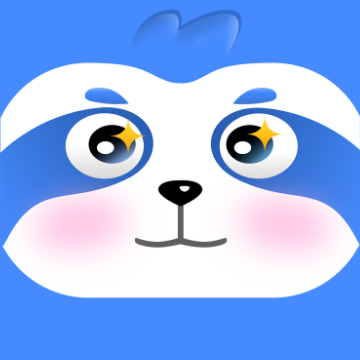
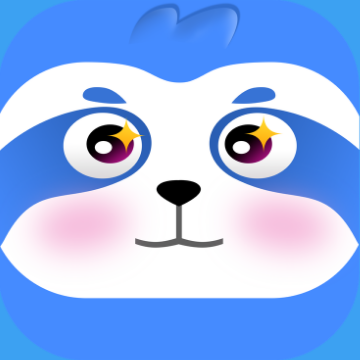
mascot added

diff --git a/src/components/HeroMascot.tsx b/src/components/HeroMascot.tsx
@@ -1,0 +1,35 @@
+import { csx } from "@/lib/csx"
+
+/* ============================================================
+   HERO MASCOT — your own illustration, used ONLY on:
+     - the landing page hero (top-left + Today's Quest card)
+     - the dashboard hero ("Hi, ...")
+   Every OTHER place (login, level card, modals, AI helper, etc.)
+   keeps its own image/mascot and is NOT affected by this file.
+
+   HOW TO SET YOUR IMAGE:
+     1. Export your mascot as a PNG with a TRANSPARENT background.
+     2. Save it as:  public/mascot-hero.png
+     3. Recommended: square, about 512x512 px (min 300x300) so it
+        stays crisp when shown large.
+   To use a different file name, just change SRC below.
+   ============================================================ */
+const SRC = "/mascot-hero.png"
+
+export function HeroMascot({
+  size = 150,
+  className = "",
+}: {
+  size?: number
+  className?: string
+}) {
+  return (
+    // eslint-disable-next-line @next/next/no-img-element
+    <img
+      src={SRC}
+      alt="Momo mascot"
+      className={"iq-heromascot " + className}
+      style={csx("width:" + size + "px;height:auto")}
+    />
+  )
+}

diff --git a/src/app/globals.css b/src/app/globals.css
@@ -994,3 +994,27 @@ html,body{max-width:100%;overflow-x:hidden}
   border-radius:10px;padding:8px 12px;font-size:13px;line-height:1.5;
   overflow-wrap:anywhere;word-break:break-word;
 }
+
+
+/* ===== REVISI v10 - custom hero mascot + gradient Sloe wordmark ===== */
+.iq-wordmark{
+  background:linear-gradient(120deg,#2F6BFF 0%,#FF5B92 100%);
+  -webkit-background-clip:text;background-clip:text;
+  -webkit-text-fill-color:transparent;color:transparent;
+  font-weight:800;letter-spacing:-.02em;
+}
+/* App sidebar/topbar wordmark -> same blue-pink gradient */
+.iq-brand{
+  background:linear-gradient(120deg,#2F6BFF 0%,#FF5B92 100%);
+  -webkit-background-clip:text;background-clip:text;
+  -webkit-text-fill-color:transparent;color:transparent;
+}
+.iq-brand i{color:inherit;-webkit-text-fill-color:inherit;background:none;font-style:normal}
+/* Custom hero illustration (landing + dashboard only) */
+.iq-heromascot{display:block;object-fit:contain}
+.iq-lp__heromascot{margin-bottom:14px}
+.iq-hero{min-height:170px}
+.iq-hero__mascot{flex:none}
+@media(max-width:860px){
+  .iq-hero__mascot{align-self:center}
+}

diff --git a/src/app/page.tsx b/src/app/page.tsx
@@ -1,5 +1,5 @@
 import Link from "next/link"
-import { Momo } from "@/components/Momo"
+import { HeroMascot } from "@/components/HeroMascot"
 import { Icon } from "@/components/Icons"
 import { csx } from "@/lib/csx"
 
@@ -30,9 +30,7 @@ export default function Landing() {
   return (
     <main className="iq-lp">
       <nav className="iq-lp__nav">
-        <span style={csx("font-weight:800;font-size:22px;color:#141B2E;letter-spacing:-.02em")}>
-          Sl<span style={csx("color:#5B3FE0")}>oe</span>
-        </span>
+        <span className="iq-wordmark" style={csx("font-size:22px")}>Sloe</span>
         <div style={csx("display:flex;gap:10px")}>
           <Link className="iq-btn iq-btn--ghost iq-btn--sm" href="/login">Log in</Link>
           <Link className="iq-btn iq-btn--primary iq-btn--sm" href="/login?mode=signup">Get started</Link>
@@ -42,6 +40,7 @@ export default function Landing() {
       <div className="iq-lp__wrap">
         <section className="iq-lp__hero">
           <div>
+            <HeroMascot size={150} className="iq-lp__heromascot" />
             <span className="iq-lp__badge">✨ Your AI internship companion</span>
             <h1 className="iq-lp__title">Turn your internship hunt into a <span className="iq-lp__grad">winning quest</span></h1>
             <p className="iq-lp__sub">Sloe helps students find, track, and win internships. Save opportunities from posters and links, get AI help with your applications, share finds with internship groups, and stay motivated with a friendly gamified workspace.</p>
@@ -52,7 +51,7 @@ export default function Landing() {
           </div>
           <div className="iq-lp__art">
             <div className="row" style={csx("gap:12px;margin-bottom:16px")}>
-              <Momo size={64} />
+              <HeroMascot size={72} />
               <div><b style={csx("font-size:16px")}>Today's Quest</b><div style={csx("opacity:.9;font-size:13px")}>3 tasks to level up</div></div>
             </div>
             <div className="iq-lp__arti"><Icon name="ic-check" className="ic ic-18" /> Finish your CV checklist</div>

diff --git a/src/app/(auth)/login/page.tsx b/src/app/(auth)/login/page.tsx
@@ -107,9 +107,7 @@ export default function LoginPage() {
   return (
     <section className="iq-auth">
       <div className="iq-auth__hero" style={csx("background:linear-gradient(180deg,#CFE6FF 0%,#E9F3FF 55%,#FFFFFF 100%)")}>
-        <span style={csx("font-weight:800;font-size:28px;color:var(--blue-text)")}>
-          Sl<span style={csx("color:var(--pink-text)")}>oe</span>
-        </span>
+        <span className="iq-wordmark" style={csx("font-size:28px")}>Sloe</span>
         <div className="iq-auth__tag" style={csx("min-height:28px")}>{TAGLINES[slide]} 🦥</div>
         <Momo size={200} />
         <div className="iq-dots">

diff --git a/src/app/(app)/dashboard/page.tsx b/src/app/(app)/dashboard/page.tsx
@@ -1,6 +1,7 @@
 import Link from "next/link"
 import { createClient } from "@/lib/supabase/server"
 import { Momo } from "@/components/Momo"
+import { HeroMascot } from "@/components/HeroMascot"
 import { MomoFace } from "@/components/MascotAvatar"
 import { isMascot, moodOf } from "@/lib/mascot"
 import { CompanyLogo } from "@/components/CompanyLogo"
@@ -73,7 +74,7 @@ export default async function DashboardPage() {
           <p style={csx("opacity:.92;margin-top:4px")}>Here is your internship quest for today.</p>
         </div>
         <span className="iq-hero__spark">✨</span>
-        <Momo size={92} />
+        <HeroMascot size={140} className="iq-hero__mascot" />
       </div>
 
       <div className="iq-callout mb-6">

diff --git a/src/app/(app)/settings/page.tsx b/src/app/(app)/settings/page.tsx
@@ -73,7 +73,7 @@ export default function SettingsPage() {
         <div>
           <div className="iq-card iq-card__pad iq-set-sec">
             <div className="iq-set-head"><span className="iq-set-ic"><Icon name="ic-star" className="ic ic-18" /></span><h3>About</h3></div>
-            <div className="iq-set-row"><div className="iq-set-row__t"><b>Sloe</b><span>Your AI companion for internship hunting</span></div><span className="iq-chip iq-chip--blue">v1.0</span></div>
+            <div className="iq-set-row"><div className="iq-set-row__t"><b className="iq-wordmark">Sloe</b><span>Your AI companion for internship hunting</span></div><span className="iq-chip iq-chip--blue">v1.0</span></div>
           </div>
 
           <div className="iq-card iq-card__pad iq-set-sec">